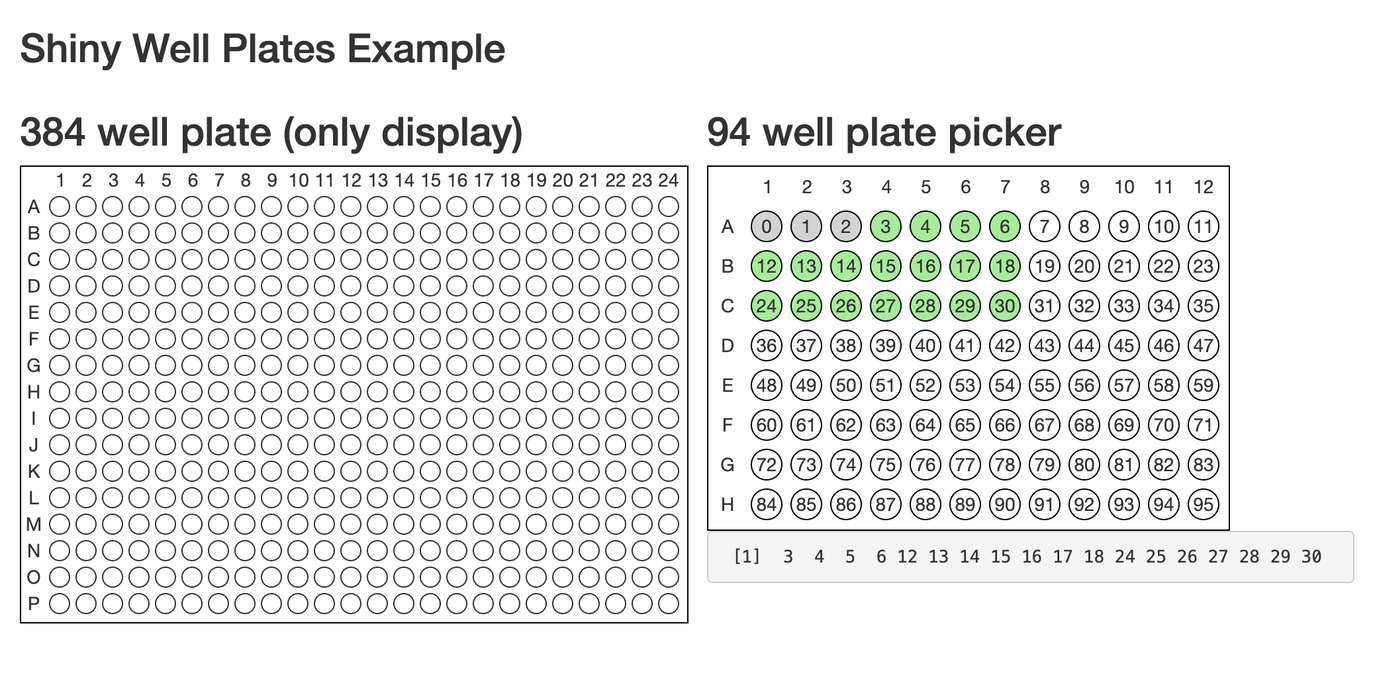
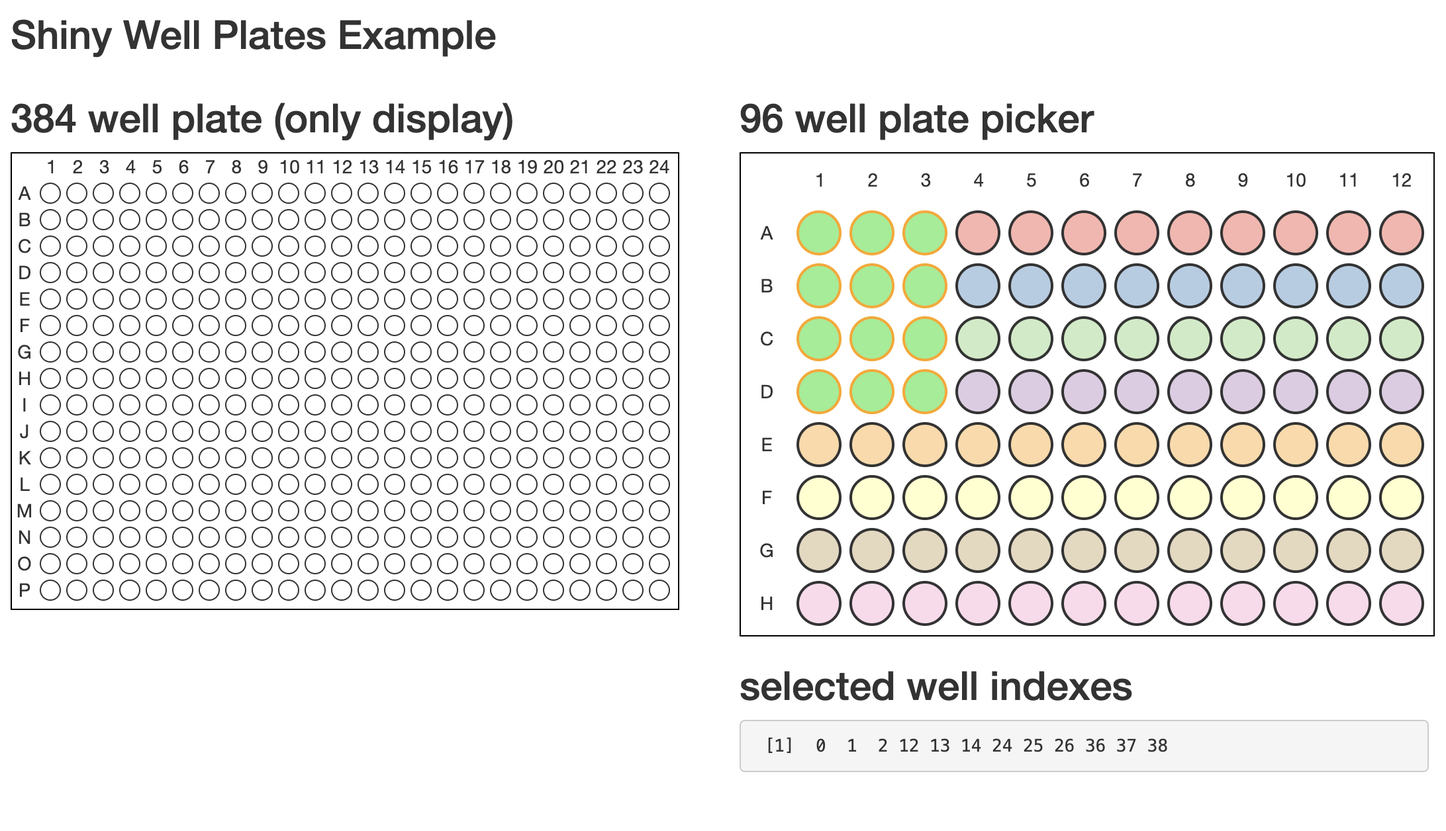
add ColorfullWellPicker component

Changed region(s): [[0.0, 0.1233, 0.9875, 0.9249], [0.0, 0.0, 0.3703, 0.0925]]

diff --git a/inst/www/shiny-wellplates.js b/inst/www/shiny-wellplates.js
@@ -1,1 +1,1 @@
-(()=>{var e={129:(e,t,o)=>{"use strict";o.r(t),o.d(t,{MultiWellPicker:()=>p,PositionFormat:()=>r,RangeSelectionMode:()=>g,WellPlate:()=>v});const n=jsmodule.react;var r,i,s,l=o.n(n);!function(e){e.Sequential="SEQUENTIAL",e.LetterNumber="LETTER_NUMBER",e.NumberNumber="NUMBER_NUMBER"}(r||(r={})),function(e){e.ByColumn="BY_COLUMN",e.ByRow="BY_ROW"}(i||(i={})),function(e){e.columns="BY_ROWS",e.rows="BY_COLUMNS",e.zone="ZONE"}(s||(s={}));class a{constructor(e){this.rows=e.rows,this.columns=e.columns;const{positionFormat:t=r.LetterNumber,iterationOrder:o=i.ByColumn}=e;this.positionFormat=t,this.iterationOrder=o,this.separator=e.separator||".",this.size=this.rows*this.columns,this.data=new Array(this.size)}[Symbol.iterator](){let e=-1;return{next:()=>{e++;const t=e===this.size;return{done:t,value:t?null:{index:e,position:this._getPositionFromIndex(e,this.iterationOrder),code:this._getFormattedPosition(e),data:this.getData(e)}}}}}_getPositionCode(e,t){if("number"==typeof e)switch(this._checkIndex(e),this.positionFormat){case r.Sequential:return String(e+1);case r.LetterNumber:{const o=this._getPositionFromIndex(e,t);return this._letterNumberCodeFromPosition(o)}case r.NumberNumber:{const o=this._getPositionFromIndex(e,t);return this._numberNumberCodeFromPosition(o)}default:throw new Error("Unreachable")}else{if("string"==typeof e){const t=this._getPosition(e);return this._getFormattedPosition(t)}switch(this._checkPosition(e),this.positionFormat){case r.Sequential:return this._sequentialCodeFromPosition(e);case r.LetterNumber:return this._letterNumberCodeFromPosition(e);case r.NumberNumber:return this._numberNumberCodeFromPosition(e);default:throw new Error("Unreachable")}}}_getFormattedPosition(e){return this._getPositionCode(e,this.iterationOrder)}getPositionSubset(e,t,o,n){if(o===s.zone)return this._getPositionCodeZone(e,t).map((e=>this.getPosition(e,n)));this._checkIndex(this._getIndex(e)),this._checkIndex(this._getIndex(t));const r=o===s.columns?i.ByRow:i.ByColumn,l="number"==typeof e?this._getPosition(e):e,a="number"==typeof t?this._getPosition(t):t;let u=this._getOrderedIndex(l,r),c=this._getOrderedIndex(a,r);u>c&&([u,c]=[c,u]);const d=c-u+1;return this._checkIndex(c),function(e,t){const o=[];for(let n=0;n<t;n++)o[n]=e+n;return o}(u,d).map((e=>r!==this.iterationOrder?this._getPositionFromIndex(e,r):e)).map((e=>this.getPosition(e,n)))}_getPositionCodeZone(e,t){const o=this._getPosition(e),n=this._getPosition(t);this._checkPosition(o),this._checkPosition(n);const r=Math.min(o.row,n.row),i=Math.min(o.column,n.column),s=Math.max(o.row,n.row),l=Math.max(o.column,n.column)-i+1,a=s-r+1,u=[];for(let e=0;e<a;e++)for(let t=0;t<l;t++)u.push({row:r+e,column:i+t});return u}_getOrderedIndex(e,t){if("number"==typeof e)return this._checkIndex(e),e;if("string"==typeof e)return this._getIndexFromCode(e,t);let o;return this._checkPosition(e),o=t===i.ByColumn?e.row*this.columns+e.column:e.column*this.rows+e.row,o}_getIndex(e){return this._getOrderedIndex(e,this.iterationOrder)}getData(e){const t=this._getIndex(e);return this.data[t]}setData(e,t){const o=this._getIndex(e);this.data[o]=t}getPosition(e,t){switch(t){case"index":return this._getIndex(e);case"row_column":return this._getPosition(e);case"formatted":return this._getFormattedPosition(e);default:throw new Error("unreachable")}}_getPosition(e){if("number"==typeof e)return this._checkIndex(e),this._getPositionFromIndex(e,this.iterationOrder);if("string"==typeof e){if(this.positionFormat===r.NumberNumber){const t=/^(?<row>\d+).(?<column>\d+)$/.exec(e);if(!e.includes(this.separator)||null===t||!t.groups)throw this._formatError();const o={row:+t.groups.row-1,column:+t.groups.column-1};return this._checkPosition(o),o}{const t=/^(?<row>[A-Z])(?<column>\d+)$/.exec(e);if(null===t||!t.groups){if(this.positionFormat!==r.Sequential)throw this._formatError();const t=+e-1;if(!Number.isInteger(t))throw this._formatError();if(Number.isNaN(t))throw this._formatError();return this._checkIndex(t),this._getPositionFromIndex(t,this.iterationOrder)}if(this.positionFormat!==r.LetterNumber)throw this._formatError();const o={row:t.groups.row.charCodeAt(0)-"A".charCodeAt(0),column:+t.groups.column-1};return this._checkPosition(o),o}}return e}get columnLabels(){const e=[];let t=1;for(let o=0;o<this.columns;o++)e.push(String(t++));return e}get rowLabels(){if(this.positionFormat!==r.LetterNumber){const e=[];let t=1;for(let o=0;o<this.rows;o++)e.push(String(t++));return e}{const e=[];let t="A".charCodeAt(0);for(let o=0;o<this.rows;o++)e.push(String.fromCharCode(t++));return e}}_getPositionFromIndex(e,t){return t===i.ByColumn?{row:Math.floor(e/this.columns),column:e%this.columns}:{row:e%this.rows,column:Math.floor(e/this.rows)}}_getIndexFromCode(e,t){return this._getOrderedIndex(this._getPosition(e),t)}_formatError(){switch(this.positionFormat){case r.LetterNumber:return new Error("invalid well code format. Must be a letter followed by a number");case r.Sequential:return new Error("invalid well code format. Must be an integer");case r.NumberNumber:return new Error(`invalid well code format. Must be 2 numbers separated by a ${this.separator}`);default:throw new Error("Unreachable")}}_checkIndex(e){if(e<0||e>=this.size)throw new RangeError("well position is out of range")}_checkPosition(e){if(e.row<0||e.row>=this.rows||e.column<0||e.column>=this.columns)throw new RangeError("well position is out of range")}_sequentialCodeFromPosition(e){return String(e.row*this.columns+e.column+1)}_letterNumberCodeFromPosition(e){const t="A".charCodeAt(0);return String.fromCharCode(t+e.row)+(e.column+1)}_numberNumberCodeFromPosition(e){return`${e.row+1}${this.separator}${e.column+1}`}}const u={borderRadius:"50%",borderWidth:1,borderStyle:"solid",display:"flex",alignItems:"center",textAlign:"center"},c=e=>{const{size:t,style:o}=e,n=Math.round(t/12),r={...u,width:t-2*n,height:t-2*n,margin:n,...o},i=e.text(e.value);return l().createElement("div",{onClick:e.onClick&&(t=>e.onClick(e.value,t)),onMouseEnter:e.onEnter&&(t=>e.onEnter(e.value,t)),onMouseLeave:e.onLeave&&(t=>e.onLeave(e.value,t)),onMouseUp:e.onMouseUp&&(t=>e.onMouseUp(e.value,t)),onMouseDown:e.onMouseDown&&(t=>e.onMouseDown(e.value,t)),className:e.className,style:r},l().createElement("div",{style:{width:"100%"}},void 0===i?e.wellPlate.getPosition(e.value,"formatted"):i))},d={userSelect:"none",WebkitUserSelect:"none"},m=e=>{const{displayAsGrid:t=!1}=e;return t?l().createElement(h,{...e}):l().createElement(w,{...e})};function h(e){const{plate:t}=e,o=t.columnLabels,n=t.rowLabels,r={borderStyle:"solid",borderColor:"gray",borderWidth:1},i=[];for(let e=0;e<=n.length-1;e++){i.push({index:void 0,label:n[e],isHeader:!0,position:{column:-1,row:e}});for(let n=0;n<=o.length-1;n++){const o={row:e,column:n},r=t.getPosition(o,"index");i.push({index:r,label:t.getPosition(o,"formatted"),isHeader:!1,position:o})}}return l().createElement("div",{style:{display:"grid",gridTemplateColumns:`max-content repeat(${o.length}, 1fr)`,gridTemplateRows:`max-content repeat(${n.length}, 1fr)`,...d,...r}},[{index:void 0,label:"",isHeader:!0,position:{row:-1,column:-1}},...o.map(((e,t)=>({index:void 0,label:e,isHeader:!0,position:{row:-1,column:t}}))),...i].map((({index:t,label:o,isHeader:n,position:i},s)=>{var a,u,c,d;if(n){const t={label:o,position:i},n=null===(a=e.headerText)||void 0===a?void 0:a.call(e,t);return l().createElement("div",{key:`header-${o}-${s}`,className:null===(u=e.headerClassName)||void 0===u?void 0:u.call(e,t),style:{...r,...null===(c=e.headerStyle)||void 0===c?void 0:c.call(e,t),padding:5,display:"flex",justifyContent:"center",alignItems:"center"}},void 0===n?o:n)}const m=null===(d=e.text)||void 0===d?void 0:d.call(e,t);return l().createElement("div",{style:{padding:5,display:"flex",justifyContent:"center",alignItems:"center",...r,...e.wellStyle(t)},key:t,className:e.wellClassName(t),onClick:e.onClick&&(o=>e.onClick(t,o)),onMouseEnter:e.onEnter&&(o=>e.onEnter(t,o)),onMouseLeave:e.onLeave&&(o=>e.onLeave(t,o)),onMouseUp:e.onMouseUp&&(o=>e.onMouseUp(t,o)),onMouseDown:e.onMouseDown&&(o=>e.onMouseDown(t,o))},l().createElement("div",null,void 0===m?o:m))})))}function w(e){const{plate:t,wellSize:o=40}=e,n=t.rowLabels,r=t.columnLabels,i={width:o,textAlign:"center"},s={width:o,height:o},a={display:"flex",alignItems:"center",height:o},u={paddingBottom:4,paddingRight:4,borderWidth:1,borderStyle:"solid",borderColor:"black",width:o*(t.columns+1)+4+1,...d},m=r.map(((t,o)=>{var n;return l().createElement("div",{key:t,style:{...i,...null===(n=e.headerStyle)||void 0===n?void 0:n.call(e,{label:t,position:{column:o,row:-1}})}},t)})),h=n.map(((n,u)=>{var d;const m=r.map(((n,r)=>{var i,a;const d=t.getPosition({row:u,column:r},"index");return l().createElement("div",{key:n,style:s},l().createElement(c,{wellPlate:t,className:null===(i=e.wellClassName)||void 0===i?void 0:i.call(e,d),style:null===(a=e.wellStyle)||void 0===a?void 0:a.call(e,d),onClick:e.onClick,onEnter:e.onEnter,onLeave:e.onLeave,onMouseDown:e.onMouseDown,onMouseUp:e.onMouseUp,text:e.text,value:d,size:o}))}));return l().createElement("div",{key:n,style:a},l().createElement("div",{style:{...i,...null===(d=e.headerStyle)||void 0===d?void 0:d.call(e,{label:n,position:{column:-1,row:u}})}},n),m)}));return l().createElement("div",{style:u},l().createElement("div",{style:a},l().createElement("div",{style:i}),m),h)}var g;!function(e){e.columns="columns",e.rows="rows",e.zone="zone",e.off="off"}(g||(g={}));const f={userSelect:"none",WebkitUserSelect:"none",cursor:"default"},b=({booked:e,disabled:t,selected:o})=>{const n={borderColor:"black"};return e&&(n.borderColor="orange"),t&&(n.backgroundColor="lightgray"),o&&(n.backgroundColor="lightgreen"),n},p=({rows:e,columns:t,format:o,value:r,renderText:i=(({label:e})=>e),disabled:u=[],onChange:c,style:d=b,className:h,rangeSelectionMode:w=g.zone,pickMode:p=!0,...v})=>{const _=(0,n.useMemo)((()=>new a({rows:e,columns:t,positionFormat:o})),[e,t,o]),x=(0,n.useMemo)((()=>new Set(r.map((e=>_.getPosition(e,"index"))))),[r,_]),y=(0,n.useMemo)((()=>new Set(u.map((e=>_.getPosition(e,"index"))))),[u,_]),[C,k]=(0,n.useState)(null),[E,S]=(0,n.useState)(new Set),M=(0,n.useCallback)(((e,t)=>{let o;switch(w){case g.zone:o=_.getPositionSubset(e,t,s.zone,"index");break;case g.columns:case g.rows:o=_.getPositionSubset(e,t,w===g.columns?s.columns:s.rows,"index");break;case g.off:return;default:throw new Error("invalid range selection mode")}S(new Set(o))}),[w,_]),N=(0,n.useCallback)((e=>{if(0===E.size)return;const t=[];for(let o of E)y.has(_.getPosition(o,"index"))||e&&x.has(o)||t.push(o);if(e)for(let e of x)E.has(e)||t.push(e);c(t,t.map((e=>_.getPosition(e,"formatted"))))}),[E,c,y,x,_]),I=(0,n.useCallback)((e=>{if(x.has(e)){const t=new Set(x);t.delete(e);const o=Array.from(t);c(o,o.map((e=>_.getPosition(e,"formatted"))))}else if(y.has(e));else{const t=[...x,e];c(t,t.map((e=>_.getPosition(e,"formatted"))))}}),[x,c,y,_]),F=(0,n.useCallback)((e=>{if(h)return h({booked:E.has(e),disabled:y.has(e),selected:x.has(e),label:_.getPosition(e,"formatted"),position:_.getPosition(e,"row_column"),index:e,wellPlate:_})}),[x,E,y,h,_]),L=(0,n.useCallback)((e=>{const t=_.getPosition(e,"formatted");return i({index:e,label:t,wellPlate:_,booked:E.has(e),position:_.getPosition(e,"row_column"),selected:x.has(e),disabled:y.has(e)})}),[i,_,E,x,y]),O=(0,n.useCallback)((e=>({...f,...null==d?void 0:d({booked:E.has(e),disabled:y.has(e),selected:x.has(e),index:e,label:_.getPosition(e,"formatted"),position:_.getPosition(e,"row_column"),wellPlate:_})})),[y,E,x,d,_]),U=(0,n.useCallback)((e=>{e.shiftKey||P(e)?N(!0):N(!1),k(null),S(new Set)}),[N]);return(0,n.useEffect)((()=>(window.addEventListener("mouseup",U),window.addEventListener("mouseleave",U),()=>{window.removeEventListener("mouseup",U),window.removeEventListener("mouseleave",U)})),[U]),l().createElement(m,{...v,plate:_,wellStyle:O,wellClassName:F,text:L,onEnter:e=>{null!==C&&M(C,e)},onLeave:e=>{C===e&&M(e,e)},onMouseDown:(e,t)=>{k(e),t.shiftKey||P(t)||(y.has(_.getPosition(e,"index"))?c([],[]):c([e],[_.getPosition(e,"formatted")]))},onClick:(e,t)=>{(t.shiftKey||P(t))&&p&&(I(e),t.stopPropagation())}})};function P(e){return"MacIntel"===navigator.platform?e.metaKey:e.ctrlKey}const v=e=>{const{rows:t,columns:o,format:r,onClick:i,onMouseDown:s,onMouseUp:u,onLeave:c,onEnter:d,wellStyle:h,wellClassName:w,renderText:g,headerStyle:f,...b}=e,p=(0,n.useMemo)((()=>new a({rows:t,columns:o,positionFormat:r})),[t,o,r]),P=(0,n.useCallback)(((e,t)=>{const o=p.getPosition(e,"formatted");i&&i(e,o,p,t)}),[i,p]),v=(0,n.useCallback)(((e,t)=>{const o=p.getPosition(e,"formatted");s&&s(e,o,p,t)}),[s,p]),_=(0,n.useCallback)(((e,t)=>{const o=p.getPosition(e,"formatted");c&&c(e,o,p,t)}),[c,p]),x=(0,n.useCallback)(((e,t)=>{const o=p.getPosition(e,"formatted");d&&d(e,o,p,t)}),[d,p]),y=(0,n.useCallback)((e=>{const t=p.getPosition(e,"formatted"),o=p.getPosition(e,"row_column");return{userSelect:"text",WebkitUserSelect:"text",...null==h?void 0:h({index:e,label:t,wellPlate:p,position:o})}}),[h,p]),C=(0,n.useCallback)((e=>({userSelect:"text",WebkitUserSelect:"text",...null==f?void 0:f(e)})),[f]),k=(0,n.useCallback)((e=>{const t=p.getPosition(e,"formatted"),o=p.getPosition(e,"row_column");if(w)return w({index:e,label:t,wellPlate:p,position:o})}),[w,p]),E=(0,n.useCallback)((e=>{const t=p.getPosition(e,"formatted"),o=p.getPosition(e,"row_column");return g?g({index:e,label:t,wellPlate:p,position:o}):t}),[g,p]);return l().createElement(m,{plate:p,onClick:P,text:E,onMouseDown:v,onLeave:_,onEnter:x,wellStyle:y,wellClassName:k,headerStyle:C,...b})}},908:e=>{"use strict";e.exports=jsmodule["@/shiny.react"]}},t={};function o(n){var r=t[n];if(void 0!==r)return r.exports;var i=t[n]={exports:{}};return e[n](i,i.exports,o),i.exports}o.n=e=>{var t=e&&e.__esModule?()=>e.default:()=>e;return o.d(t,{a:t}),t},o.d=(e,t)=>{for(var n in t)o.o(t,n)&&!o.o(e,n)&&Object.defineProperty(e,n,{enumerable:!0,get:t[n]})},o.o=(e,t)=>Object.prototype.hasOwnProperty.call(e,t),o.r=e=>{"undefined"!=typeof Symbol&&Symbol.toStringTag&&Object.defineProperty(e,Symbol.toStringTag,{value:"Module"}),Object.defineProperty(e,"__esModule",{value:!0})},(()=>{const e=o(129),{InputAdapter:t}=o(908),n=t(e.MultiWellPicker,((e,t)=>({value:e,onChange:t})));window.jsmodule={...window.jsmodule,"react-well-plates":e,"@/shiny.wellplates":{MultiWellPicker:n}}})()})();
+(()=>{var e={638:(e,t,o)=>{"use strict";o.r(t),o.d(t,{MultiWellPicker:()=>p,PositionFormat:()=>n,RangeSelectionMode:()=>g,WellPlate:()=>v});var n,r,i,s=o(897),l=o.n(s);!function(e){e.Sequential="SEQUENTIAL",e.LetterNumber="LETTER_NUMBER",e.NumberNumber="NUMBER_NUMBER"}(n||(n={})),function(e){e.ByColumn="BY_COLUMN",e.ByRow="BY_ROW"}(r||(r={})),function(e){e.columns="BY_ROWS",e.rows="BY_COLUMNS",e.zone="ZONE"}(i||(i={}));class a{constructor(e){this.rows=e.rows,this.columns=e.columns;const{positionFormat:t=n.LetterNumber,iterationOrder:o=r.ByColumn}=e;this.positionFormat=t,this.iterationOrder=o,this.separator=e.separator||".",this.size=this.rows*this.columns,this.data=new Array(this.size)}[Symbol.iterator](){let e=-1;return{next:()=>{e++;const t=e===this.size;return{done:t,value:t?null:{index:e,position:this._getPositionFromIndex(e,this.iterationOrder),code:this._getFormattedPosition(e),data:this.getData(e)}}}}}_getPositionCode(e,t){if("number"==typeof e)switch(this._checkIndex(e),this.positionFormat){case n.Sequential:return String(e+1);case n.LetterNumber:{const o=this._getPositionFromIndex(e,t);return this._letterNumberCodeFromPosition(o)}case n.NumberNumber:{const o=this._getPositionFromIndex(e,t);return this._numberNumberCodeFromPosition(o)}default:throw new Error("Unreachable")}else{if("string"==typeof e){const t=this._getPosition(e);return this._getFormattedPosition(t)}switch(this._checkPosition(e),this.positionFormat){case n.Sequential:return this._sequentialCodeFromPosition(e);case n.LetterNumber:return this._letterNumberCodeFromPosition(e);case n.NumberNumber:return this._numberNumberCodeFromPosition(e);default:throw new Error("Unreachable")}}}_getFormattedPosition(e){return this._getPositionCode(e,this.iterationOrder)}getPositionSubset(e,t,o,n){if(o===i.zone)return this._getPositionCodeZone(e,t).map((e=>this.getPosition(e,n)));this._checkIndex(this._getIndex(e)),this._checkIndex(this._getIndex(t));const s=o===i.columns?r.ByRow:r.ByColumn,l="number"==typeof e?this._getPosition(e):e,a="number"==typeof t?this._getPosition(t):t;let u=this._getOrderedIndex(l,s),c=this._getOrderedIndex(a,s);u>c&&([u,c]=[c,u]);const d=c-u+1;return this._checkIndex(c),function(e,t){const o=[];for(let n=0;n<t;n++)o[n]=e+n;return o}(u,d).map((e=>s!==this.iterationOrder?this._getPositionFromIndex(e,s):e)).map((e=>this.getPosition(e,n)))}_getPositionCodeZone(e,t){const o=this._getPosition(e),n=this._getPosition(t);this._checkPosition(o),this._checkPosition(n);const r=Math.min(o.row,n.row),i=Math.min(o.column,n.column),s=Math.max(o.row,n.row),l=Math.max(o.column,n.column)-i+1,a=s-r+1,u=[];for(let e=0;e<a;e++)for(let t=0;t<l;t++)u.push({row:r+e,column:i+t});return u}_getOrderedIndex(e,t){if("number"==typeof e)return this._checkIndex(e),e;if("string"==typeof e)return this._getIndexFromCode(e,t);let o;return this._checkPosition(e),o=t===r.ByColumn?e.row*this.columns+e.column:e.column*this.rows+e.row,o}_getIndex(e){return this._getOrderedIndex(e,this.iterationOrder)}getData(e){const t=this._getIndex(e);return this.data[t]}setData(e,t){const o=this._getIndex(e);this.data[o]=t}getPosition(e,t){switch(t){case"index":return this._getIndex(e);case"row_column":return this._getPosition(e);case"formatted":return this._getFormattedPosition(e);default:throw new Error("unreachable")}}_getPosition(e){if("number"==typeof e)return this._checkIndex(e),this._getPositionFromIndex(e,this.iterationOrder);if("string"==typeof e){if(this.positionFormat===n.NumberNumber){const t=/^(?<row>\d+).(?<column>\d+)$/.exec(e);if(!e.includes(this.separator)||null===t||!t.groups)throw this._formatError();const o={row:+t.groups.row-1,column:+t.groups.column-1};return this._checkPosition(o),o}{const t=/^(?<row>[A-Z])(?<column>\d+)$/.exec(e);if(null===t||!t.groups){if(this.positionFormat!==n.Sequential)throw this._formatError();const t=+e-1;if(!Number.isInteger(t))throw this._formatError();if(Number.isNaN(t))throw this._formatError();return this._checkIndex(t),this._getPositionFromIndex(t,this.iterationOrder)}if(this.positionFormat!==n.LetterNumber)throw this._formatError();const o={row:t.groups.row.charCodeAt(0)-"A".charCodeAt(0),column:+t.groups.column-1};return this._checkPosition(o),o}}return e}get columnLabels(){const e=[];let t=1;for(let o=0;o<this.columns;o++)e.push(String(t++));return e}get rowLabels(){if(this.positionFormat!==n.LetterNumber){const e=[];let t=1;for(let o=0;o<this.rows;o++)e.push(String(t++));return e}{const e=[];let t="A".charCodeAt(0);for(let o=0;o<this.rows;o++)e.push(String.fromCharCode(t++));return e}}_getPositionFromIndex(e,t){return t===r.ByColumn?{row:Math.floor(e/this.columns),column:e%this.columns}:{row:e%this.rows,column:Math.floor(e/this.rows)}}_getIndexFromCode(e,t){return this._getOrderedIndex(this._getPosition(e),t)}_formatError(){switch(this.positionFormat){case n.LetterNumber:return new Error("invalid well code format. Must be a letter followed by a number");case n.Sequential:return new Error("invalid well code format. Must be an integer");case n.NumberNumber:return new Error(`invalid well code format. Must be 2 numbers separated by a ${this.separator}`);default:throw new Error("Unreachable")}}_checkIndex(e){if(e<0||e>=this.size)throw new RangeError("well position is out of range")}_checkPosition(e){if(e.row<0||e.row>=this.rows||e.column<0||e.column>=this.columns)throw new RangeError("well position is out of range")}_sequentialCodeFromPosition(e){return String(e.row*this.columns+e.column+1)}_letterNumberCodeFromPosition(e){const t="A".charCodeAt(0);return String.fromCharCode(t+e.row)+(e.column+1)}_numberNumberCodeFromPosition(e){return`${e.row+1}${this.separator}${e.column+1}`}}const u={borderRadius:"50%",borderWidth:1,borderStyle:"solid",display:"flex",alignItems:"center",textAlign:"center"},c=e=>{const{size:t,style:o}=e,n=Math.round(t/12),r={...u,width:t-2*n,height:t-2*n,margin:n,...o},i=e.text(e.value);return l().createElement("div",{onClick:e.onClick&&(t=>e.onClick(e.value,t)),onMouseEnter:e.onEnter&&(t=>e.onEnter(e.value,t)),onMouseLeave:e.onLeave&&(t=>e.onLeave(e.value,t)),onMouseUp:e.onMouseUp&&(t=>e.onMouseUp(e.value,t)),onMouseDown:e.onMouseDown&&(t=>e.onMouseDown(e.value,t)),className:e.className,style:r},l().createElement("div",{style:{width:"100%"}},void 0===i?e.wellPlate.getPosition(e.value,"formatted"):i))},d={userSelect:"none",WebkitUserSelect:"none"},m=e=>{const{displayAsGrid:t=!1}=e;return t?l().createElement(h,{...e}):l().createElement(w,{...e})};function h(e){const{plate:t}=e,o=t.columnLabels,n=t.rowLabels,r={borderStyle:"solid",borderColor:"gray",borderWidth:1},i=[];for(let e=0;e<=n.length-1;e++){i.push({index:void 0,label:n[e],isHeader:!0,position:{column:-1,row:e}});for(let n=0;n<=o.length-1;n++){const o={row:e,column:n},r=t.getPosition(o,"index");i.push({index:r,label:t.getPosition(o,"formatted"),isHeader:!1,position:o})}}return l().createElement("div",{style:{display:"grid",gridTemplateColumns:`max-content repeat(${o.length}, 1fr)`,gridTemplateRows:`max-content repeat(${n.length}, 1fr)`,...d,...r}},[{index:void 0,label:"",isHeader:!0,position:{row:-1,column:-1}},...o.map(((e,t)=>({index:void 0,label:e,isHeader:!0,position:{row:-1,column:t}}))),...i].map((({index:t,label:o,isHeader:n,position:i},s)=>{var a,u,c,d;if(n){const t={label:o,position:i},n=null===(a=e.headerText)||void 0===a?void 0:a.call(e,t);return l().createElement("div",{key:`header-${o}-${s}`,className:null===(u=e.headerClassName)||void 0===u?void 0:u.call(e,t),style:{...r,...null===(c=e.headerStyle)||void 0===c?void 0:c.call(e,t),padding:5,display:"flex",justifyContent:"center",alignItems:"center"}},void 0===n?o:n)}const m=null===(d=e.text)||void 0===d?void 0:d.call(e,t);return l().createElement("div",{style:{padding:5,display:"flex",justifyContent:"center",alignItems:"center",...r,...e.wellStyle(t)},key:t,className:e.wellClassName(t),onClick:e.onClick&&(o=>e.onClick(t,o)),onMouseEnter:e.onEnter&&(o=>e.onEnter(t,o)),onMouseLeave:e.onLeave&&(o=>e.onLeave(t,o)),onMouseUp:e.onMouseUp&&(o=>e.onMouseUp(t,o)),onMouseDown:e.onMouseDown&&(o=>e.onMouseDown(t,o))},l().createElement("div",null,void 0===m?o:m))})))}function w(e){const{plate:t,wellSize:o=40}=e,n=t.rowLabels,r=t.columnLabels,i={width:o,textAlign:"center"},s={width:o,height:o},a={display:"flex",alignItems:"center",height:o},u={paddingBottom:4,paddingRight:4,borderWidth:1,borderStyle:"solid",borderColor:"black",width:o*(t.columns+1)+4+1,...d},m=r.map(((t,o)=>{var n;return l().createElement("div",{key:t,style:{...i,...null===(n=e.headerStyle)||void 0===n?void 0:n.call(e,{label:t,position:{column:o,row:-1}})}},t)})),h=n.map(((n,u)=>{var d;const m=r.map(((n,r)=>{var i,a;const d=t.getPosition({row:u,column:r},"index");return l().createElement("div",{key:n,style:s},l().createElement(c,{wellPlate:t,className:null===(i=e.wellClassName)||void 0===i?void 0:i.call(e,d),style:null===(a=e.wellStyle)||void 0===a?void 0:a.call(e,d),onClick:e.onClick,onEnter:e.onEnter,onLeave:e.onLeave,onMouseDown:e.onMouseDown,onMouseUp:e.onMouseUp,text:e.text,value:d,size:o}))}));return l().createElement("div",{key:n,style:a},l().createElement("div",{style:{...i,...null===(d=e.headerStyle)||void 0===d?void 0:d.call(e,{label:n,position:{column:-1,row:u}})}},n),m)}));return l().createElement("div",{style:u},l().createElement("div",{style:a},l().createElement("div",{style:i}),m),h)}var g;!function(e){e.columns="columns",e.rows="rows",e.zone="zone",e.off="off"}(g||(g={}));const b={userSelect:"none",WebkitUserSelect:"none",cursor:"default"},f=({booked:e,disabled:t,selected:o})=>{const n={borderColor:"black"};return e&&(n.borderColor="orange"),t&&(n.backgroundColor="lightgray"),o&&(n.backgroundColor="lightgreen"),n},p=({rows:e,columns:t,format:o,value:n,renderText:r=(({label:e})=>e),disabled:u=[],onChange:c,style:d=f,className:h,rangeSelectionMode:w=g.zone,pickMode:p=!0,...v})=>{const x=(0,s.useMemo)((()=>new a({rows:e,columns:t,positionFormat:o})),[e,t,o]),_=(0,s.useMemo)((()=>new Set(n.map((e=>x.getPosition(e,"index"))))),[n,x]),y=(0,s.useMemo)((()=>new Set(u.map((e=>x.getPosition(e,"index"))))),[u,x]),[C,k]=(0,s.useState)(null),[E,S]=(0,s.useState)(new Set),M=(0,s.useCallback)(((e,t)=>{let o;switch(w){case g.zone:o=x.getPositionSubset(e,t,i.zone,"index");break;case g.columns:case g.rows:o=x.getPositionSubset(e,t,w===g.columns?i.columns:i.rows,"index");break;case g.off:return;default:throw new Error("invalid range selection mode")}S(new Set(o))}),[w,x]),N=(0,s.useCallback)((e=>{if(0===E.size)return;const t=[];for(let o of E)y.has(x.getPosition(o,"index"))||e&&_.has(o)||t.push(o);if(e)for(let e of _)E.has(e)||t.push(e);c(t,t.map((e=>x.getPosition(e,"formatted"))))}),[E,c,y,_,x]),I=(0,s.useCallback)((e=>{if(_.has(e)){const t=new Set(_);t.delete(e);const o=Array.from(t);c(o,o.map((e=>x.getPosition(e,"formatted"))))}else if(y.has(e));else{const t=[..._,e];c(t,t.map((e=>x.getPosition(e,"formatted"))))}}),[_,c,y,x]),F=(0,s.useCallback)((e=>{if(h)return h({booked:E.has(e),disabled:y.has(e),selected:_.has(e),label:x.getPosition(e,"formatted"),position:x.getPosition(e,"row_column"),index:e,wellPlate:x})}),[_,E,y,h,x]),L=(0,s.useCallback)((e=>{const t=x.getPosition(e,"formatted");return r({index:e,label:t,wellPlate:x,booked:E.has(e),position:x.getPosition(e,"row_column"),selected:_.has(e),disabled:y.has(e)})}),[r,x,E,_,y]),O=(0,s.useCallback)((e=>({...b,...null==d?void 0:d({booked:E.has(e),disabled:y.has(e),selected:_.has(e),index:e,label:x.getPosition(e,"formatted"),position:x.getPosition(e,"row_column"),wellPlate:x})})),[y,E,_,d,x]),U=(0,s.useCallback)((e=>{e.shiftKey||P(e)?N(!0):N(!1),k(null),S(new Set)}),[N]);return(0,s.useEffect)((()=>(window.addEventListener("mouseup",U),window.addEventListener("mouseleave",U),()=>{window.removeEventListener("mouseup",U),window.removeEventListener("mouseleave",U)})),[U]),l().createElement(m,{...v,plate:x,wellStyle:O,wellClassName:F,text:L,onEnter:e=>{null!==C&&M(C,e)},onLeave:e=>{C===e&&M(e,e)},onMouseDown:(e,t)=>{k(e),t.shiftKey||P(t)||(y.has(x.getPosition(e,"index"))?c([],[]):c([e],[x.getPosition(e,"formatted")]))},onClick:(e,t)=>{(t.shiftKey||P(t))&&p&&(I(e),t.stopPropagation())}})};function P(e){return"MacIntel"===navigator.platform?e.metaKey:e.ctrlKey}const v=e=>{const{rows:t,columns:o,format:n,onClick:r,onMouseDown:i,onMouseUp:u,onLeave:c,onEnter:d,wellStyle:h,wellClassName:w,renderText:g,headerStyle:b,...f}=e,p=(0,s.useMemo)((()=>new a({rows:t,columns:o,positionFormat:n})),[t,o,n]),P=(0,s.useCallback)(((e,t)=>{const o=p.getPosition(e,"formatted");r&&r(e,o,p,t)}),[r,p]),v=(0,s.useCallback)(((e,t)=>{const o=p.getPosition(e,"formatted");i&&i(e,o,p,t)}),[i,p]),x=(0,s.useCallback)(((e,t)=>{const o=p.getPosition(e,"formatted");c&&c(e,o,p,t)}),[c,p]),_=(0,s.useCallback)(((e,t)=>{const o=p.getPosition(e,"formatted");d&&d(e,o,p,t)}),[d,p]),y=(0,s.useCallback)((e=>{const t=p.getPosition(e,"formatted"),o=p.getPosition(e,"row_column");return{userSelect:"text",WebkitUserSelect:"text",...null==h?void 0:h({index:e,label:t,wellPlate:p,position:o})}}),[h,p]),C=(0,s.useCallback)((e=>({userSelect:"text",WebkitUserSelect:"text",...null==b?void 0:b(e)})),[b]),k=(0,s.useCallback)((e=>{const t=p.getPosition(e,"formatted"),o=p.getPosition(e,"row_column");if(w)return w({index:e,label:t,wellPlate:p,position:o})}),[w,p]),E=(0,s.useCallback)((e=>{const t=p.getPosition(e,"formatted"),o=p.getPosition(e,"row_column");return g?g({index:e,label:t,wellPlate:p,position:o}):t}),[g,p]);return l().createElement(m,{plate:p,onClick:P,text:E,onMouseDown:v,onLeave:x,onEnter:_,wellStyle:y,wellClassName:k,headerStyle:C,...f})}},908:e=>{"use strict";e.exports=jsmodule["@/shiny.react"]},897:e=>{"use strict";e.exports=jsmodule.react}},t={};function o(n){var r=t[n];if(void 0!==r)return r.exports;var i=t[n]={exports:{}};return e[n](i,i.exports,o),i.exports}o.n=e=>{var t=e&&e.__esModule?()=>e.default:()=>e;return o.d(t,{a:t}),t},o.d=(e,t)=>{for(var n in t)o.o(t,n)&&!o.o(e,n)&&Object.defineProperty(e,n,{enumerable:!0,get:t[n]})},o.o=(e,t)=>Object.prototype.hasOwnProperty.call(e,t),o.r=e=>{"undefined"!=typeof Symbol&&Symbol.toStringTag&&Object.defineProperty(e,Symbol.toStringTag,{value:"Module"}),Object.defineProperty(e,"__esModule",{value:!0})},(()=>{const e=o(638),{useState:t}=o(897),{InputAdapter:n}=o(908),r=n(e.MultiWellPicker,((e,t)=>({value:e,onChange:t}))),i=n((function({value:t,onChange:o,rows:n,columns:r,colors:i,...s}){return e.MultiWellPicker({value:t,onChange:o,rows:n,columns:r,style:({index:e,booked:t,disabled:o,selected:n,wellPlate:r})=>{let s={borderWidth:"2px"};return t&&(s.borderColor="orange"),o&&(s.backgroundColor="lightgray"),n?(s.borderColor="orange",s.backgroundColor="lightgreen"):s.backgroundColor=i[e],s},renderText:({index:e,label:t,wellPlate:o,booked:n,position:r,selected:i,disabled:s})=>null})}),((e,t)=>({value:e,onChange:t})));window.jsmodule={...window.jsmodule,"react-well-plates":e,"@/shiny.wellplates":{MultiWellPicker:r,ColorfullWellPicker:i}}})()})();

diff --git a/js/src/index.js b/js/src/index.js
@@ -1,4 +1,5 @@
 const ReactWellPlates = require("react-well-plates/lib-es/src/index");
+const { useState } = require('react');
 const { InputAdapter } = require('@/shiny.react')
 
 const MultiWellPicker = InputAdapter(ReactWellPlates.MultiWellPicker, (value, setValue) => ({
@@ -6,8 +7,47 @@ const MultiWellPicker = InputAdapter(ReactWellPlates.MultiWellPicker, (value, se
   onChange: setValue
 }));
 
+function ColorfullWellPickerFun({value, onChange, rows, columns, colors, ...props}) {
+  const wellPickerStyle = ({ index, booked, disabled, selected, wellPlate }) => {
+    let styles = {};
+    styles.borderWidth = '2px';
+    if (booked) {
+      styles.borderColor = 'orange';
+    }
+    if (disabled) {
+      styles.backgroundColor = 'lightgray';
+    }
+    if (selected) {
+      styles.borderColor = 'orange';
+      styles.backgroundColor = 'lightgreen';
+    } else {
+      styles.backgroundColor = colors[index];
+    }
+    return styles;
+  };
+
+  const wellPickerText = ({index, label, wellPlate, booked, position, selected, disabled}) => {
+    return null;
+  };
+  const wellpicker = ReactWellPlates.MultiWellPicker({
+    value: value,
+    onChange: onChange,
+    rows: rows,
+    columns: columns,
+    style: wellPickerStyle,
+    renderText: wellPickerText,
+  }
+  );
+  return wellpicker;
+}
+
+const ColorfullWellPicker = InputAdapter(ColorfullWellPickerFun, (value, setValue) => ({
+  value: value,
+  onChange: setValue
+}));
+
 window.jsmodule = {
   ...window.jsmodule,
   'react-well-plates': ReactWellPlates,
-  '@/shiny.wellplates': { MultiWellPicker },
+  '@/shiny.wellplates': { MultiWellPicker, ColorfullWellPicker },
 };
